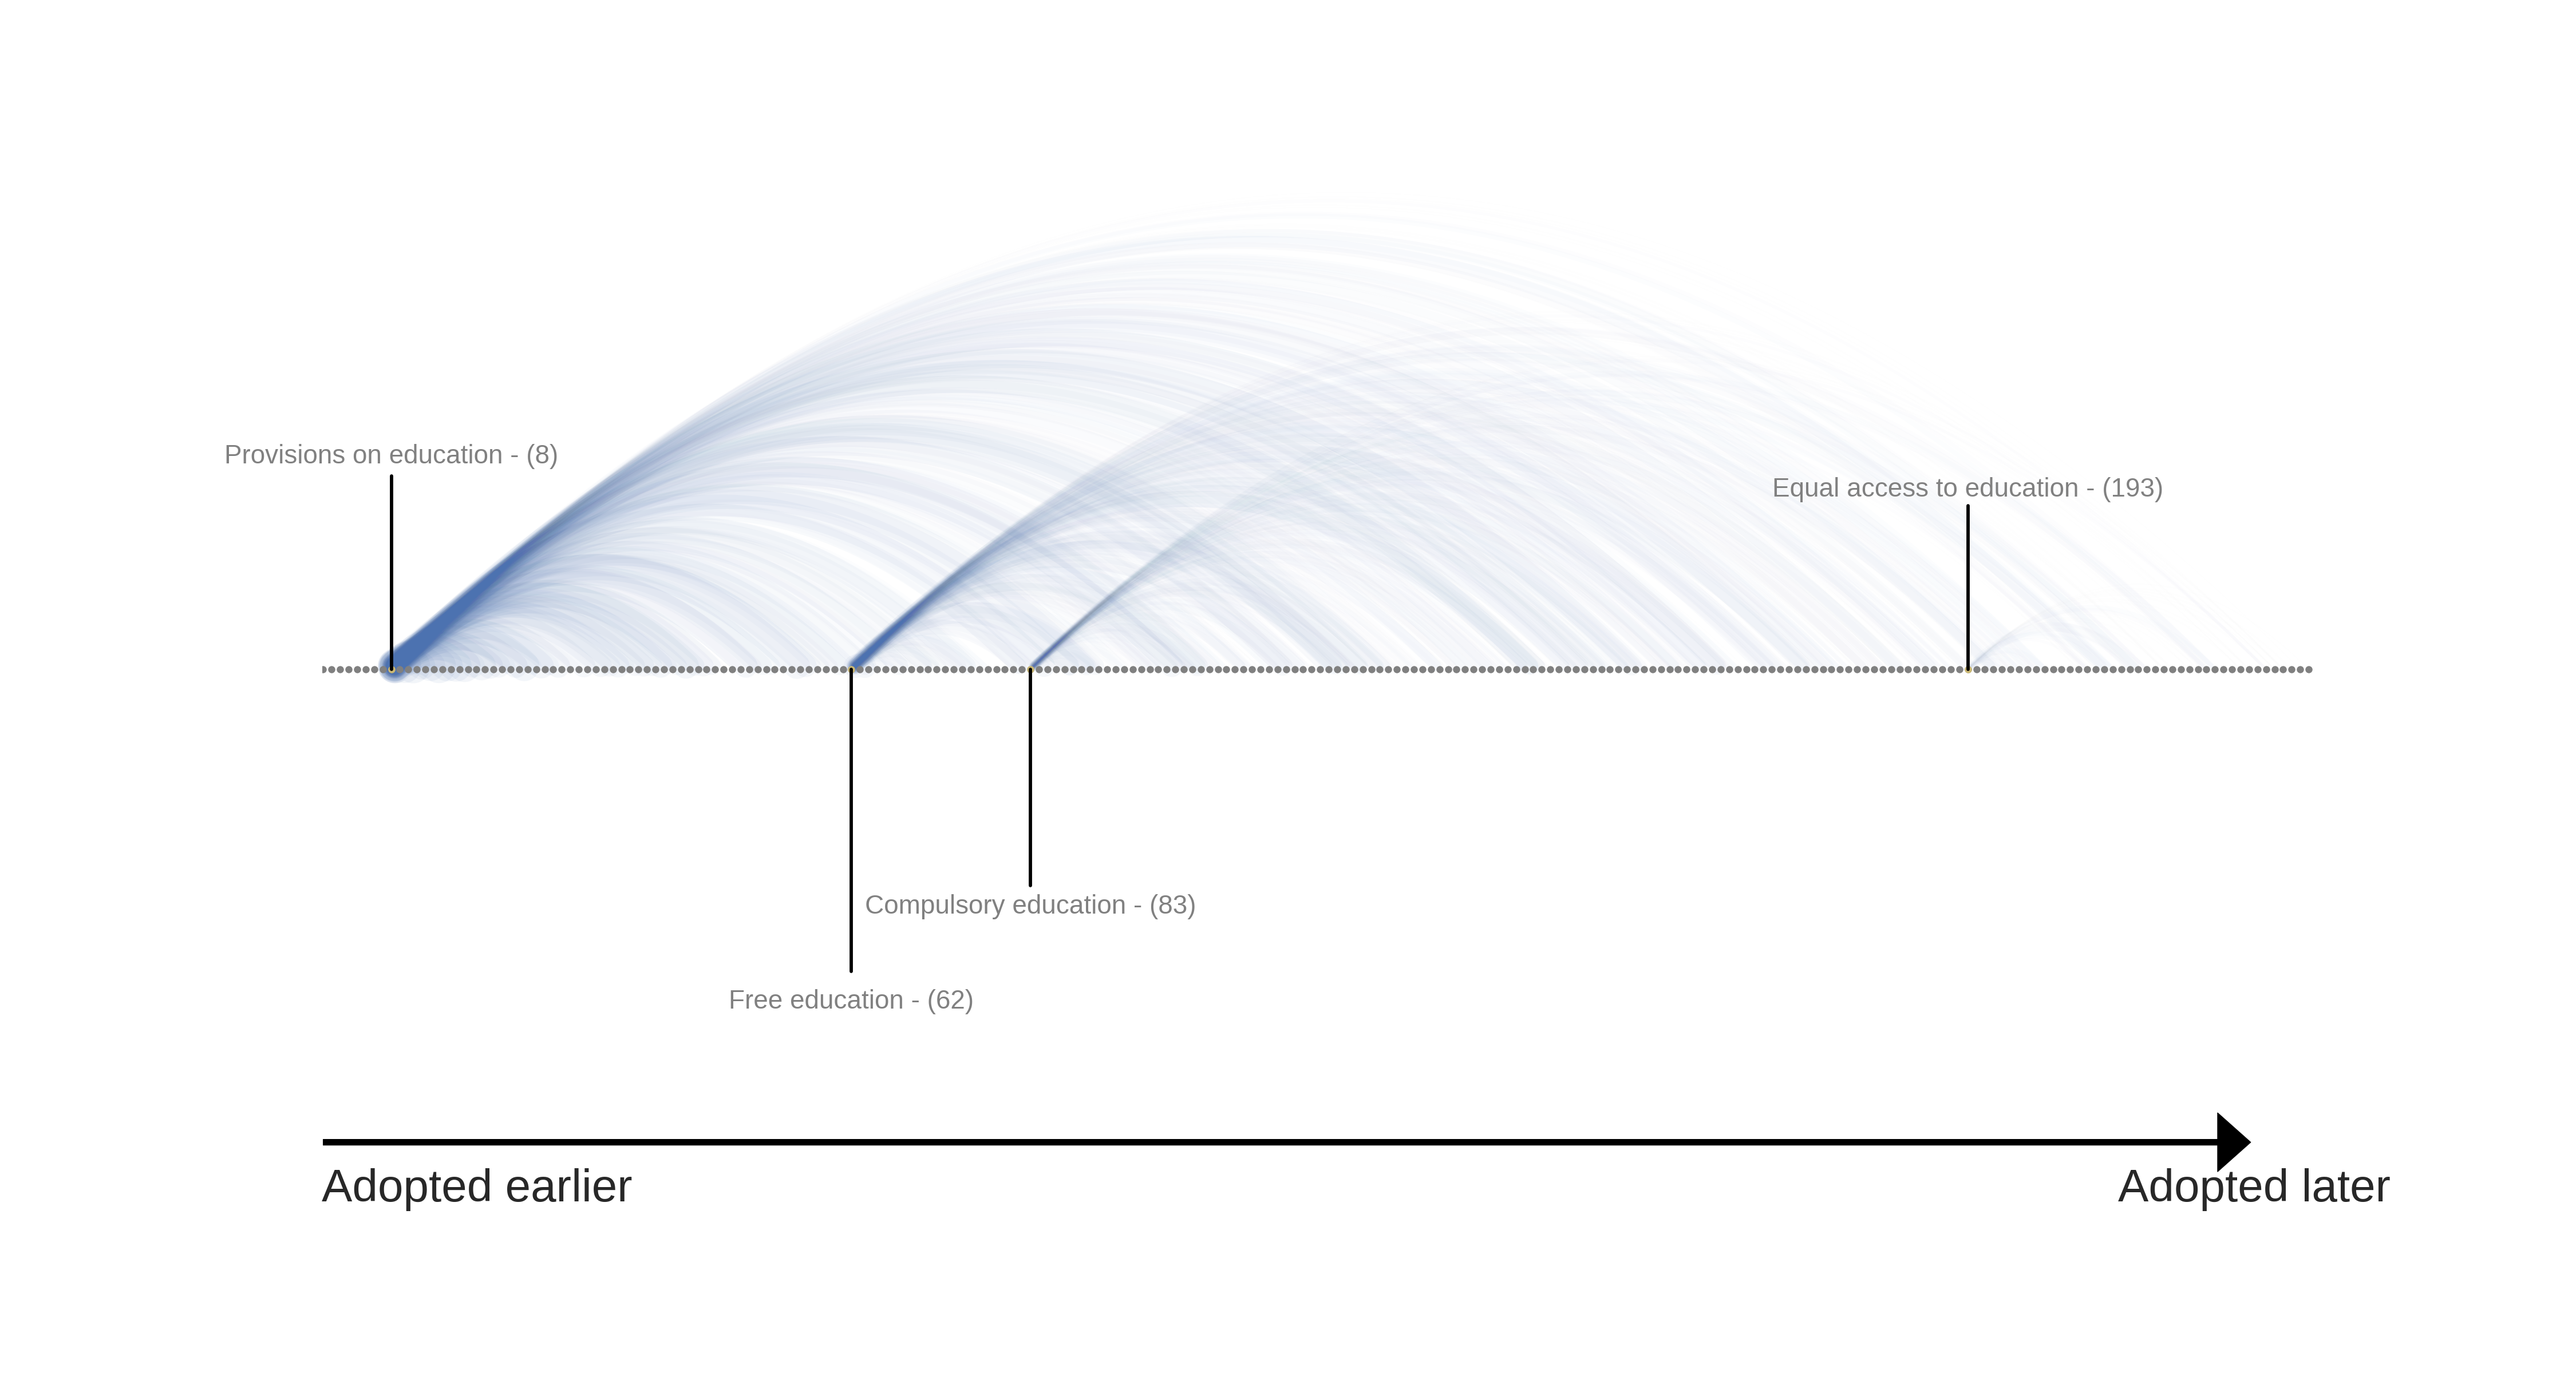
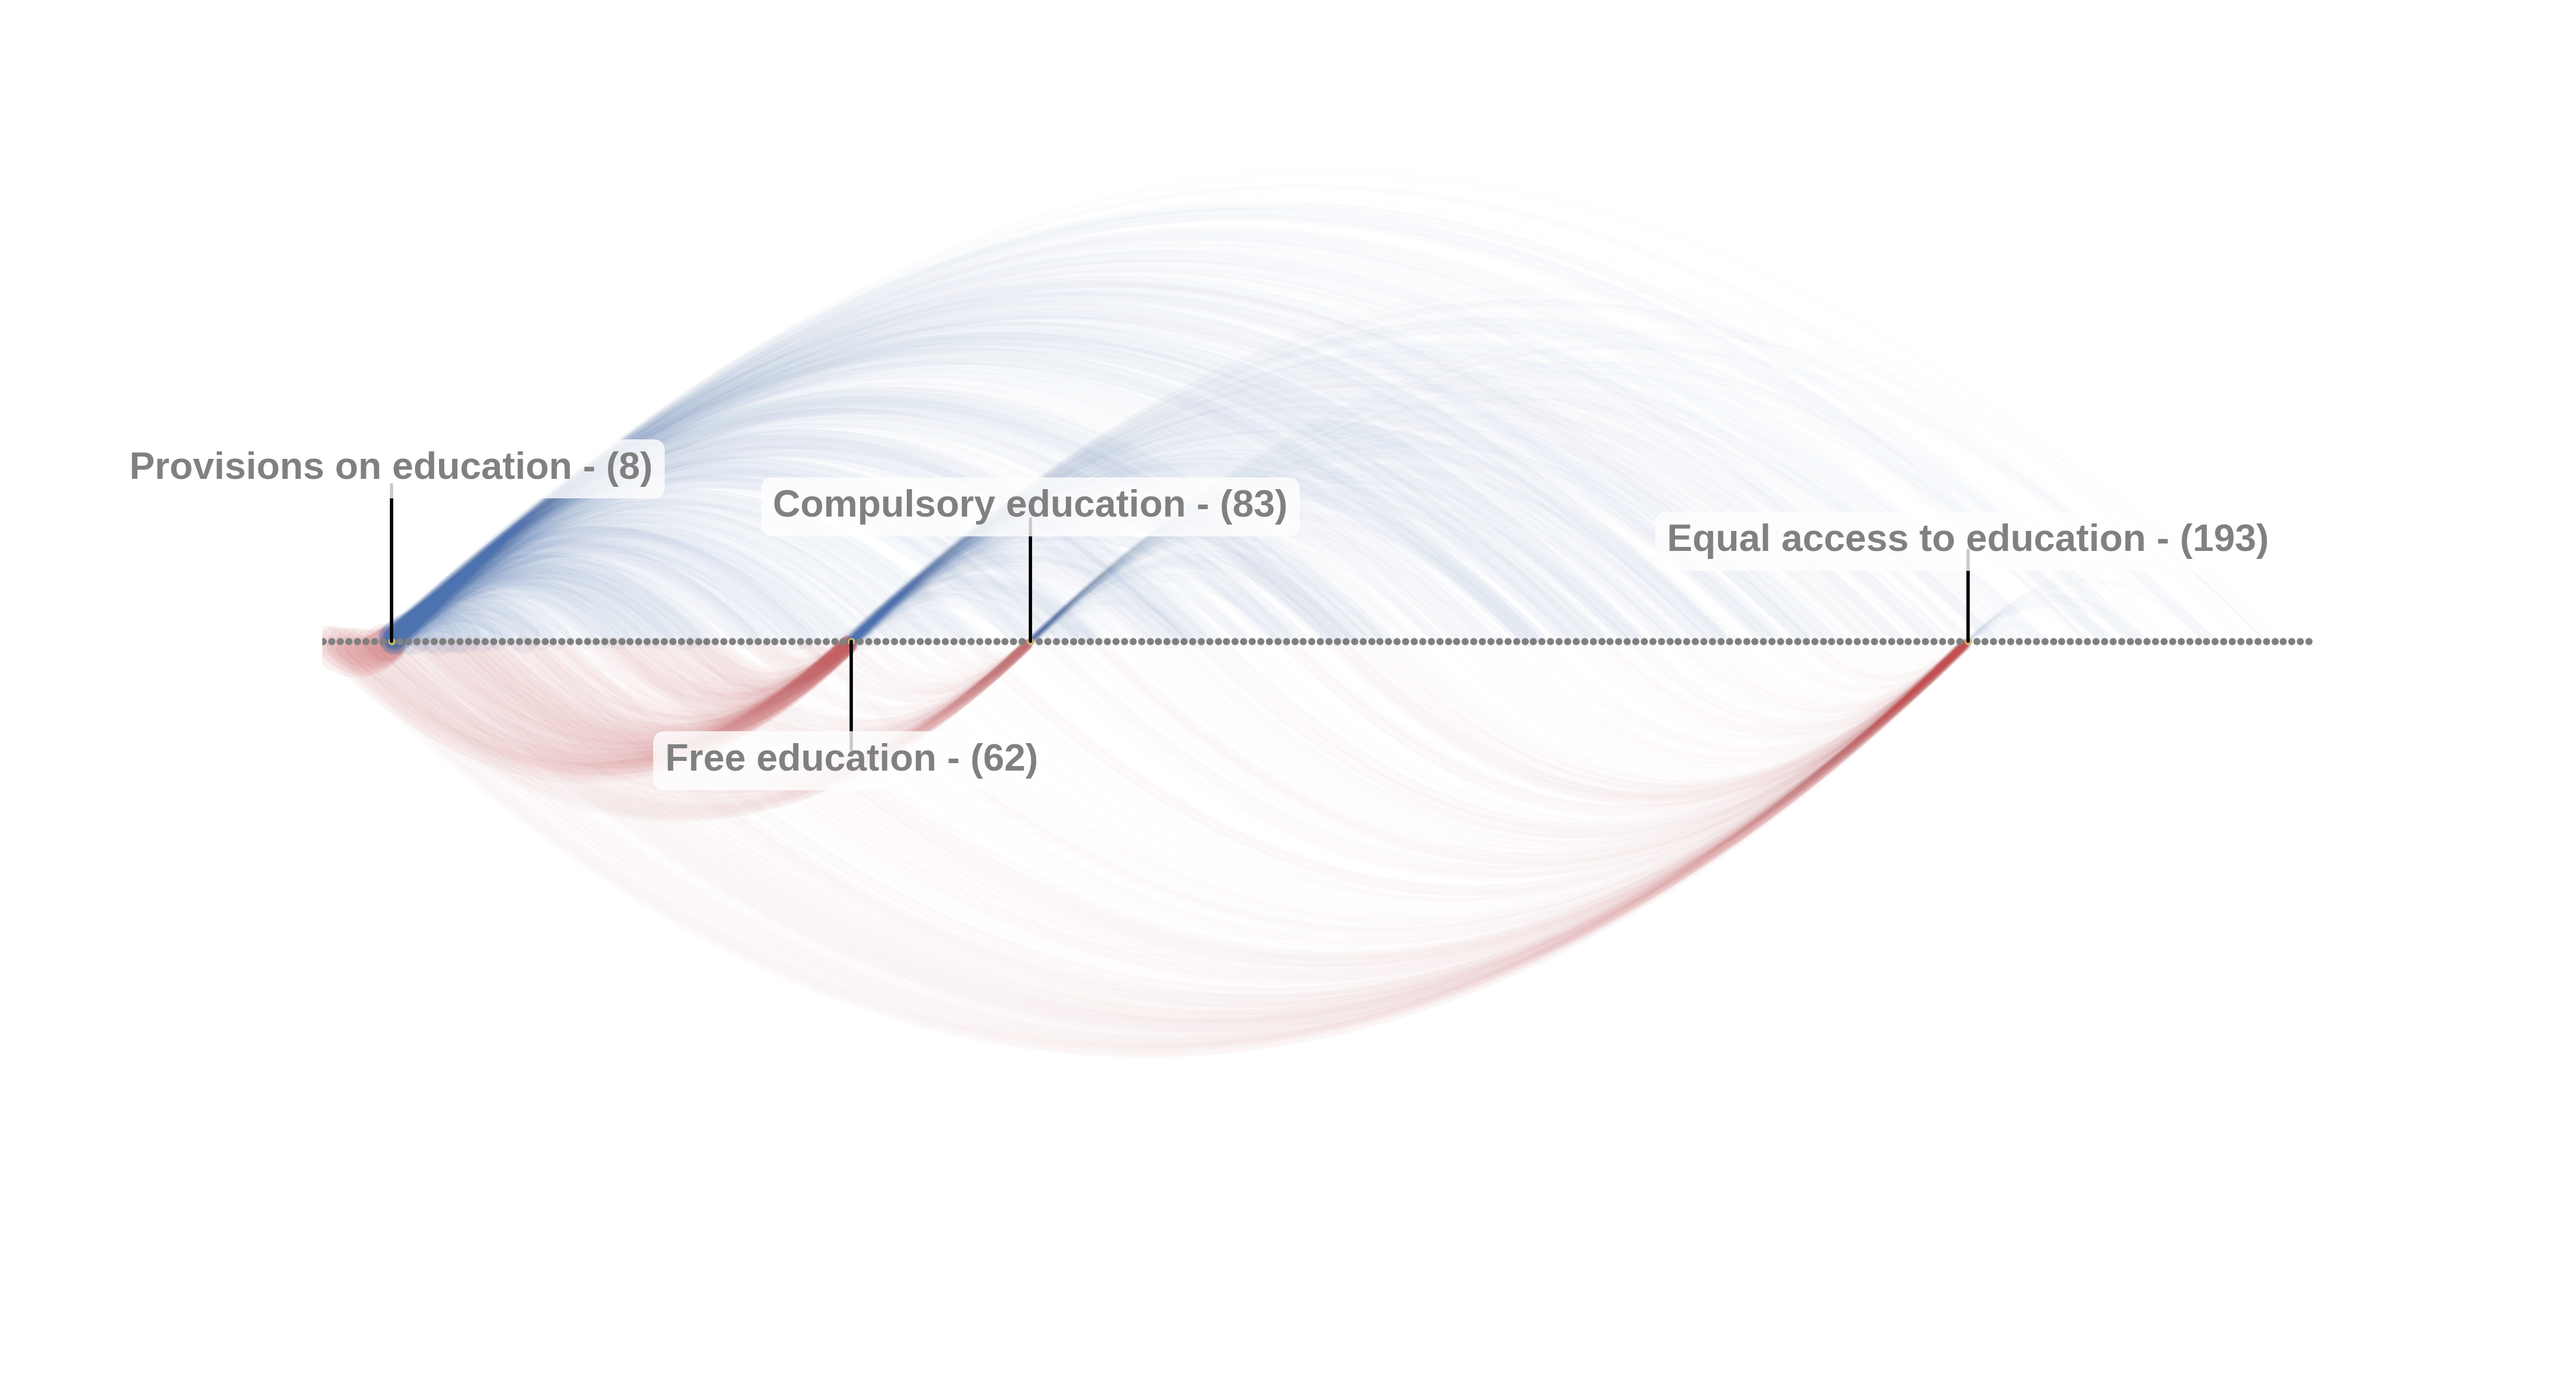
updated hierarcy images

diff --git a/hierarchy.html b/hierarchy.html
@@ -94,23 +94,32 @@ img {
   <div class="tabbable"> <!-- Only required for left/right tabs -->
     <ul class="nav nav-tabs">
       <li class="active"><a href="#tab1" data-toggle="tab">Full hierarchy</a></li>
-      <li><a href="#tab2" data-toggle="tab">Work hierarchy</a></li>
-      <li><a href="#tab3" data-toggle="tab">Education hierarchy</a></li>
+      <li ><a href="#tab2" data-toggle="tab">Upper hierarchy</a></li>
+      <li ><a href="#tab3" data-toggle="tab">Lower hierarchy</a></li>
+      <li><a href="#tab4" data-toggle="tab">Work hierarchy</a></li>
+      <li><a href="#tab5" data-toggle="tab">Education hierarchy</a></li>
     </ul>
     <div class="tab-content">
       <div class="tab-pane active" id="tab1">
-
-
         <img class="media-object" src="img/hierarchy.png">
       </div>
 
       <div class="tab-pane" id="tab2">
-          <img class="media-object" src="img/hierarchy_selected_work.png">
+          <img class="media-object" src="img/hierarchy_high_focused.png">
       </div>
 
       <div class="tab-pane" id="tab3">
+          <img class="media-object" src="img/hierarchy_low_focused.png">
+      </div>
+
+      <div class="tab-pane" id="tab4">
+          <img class="media-object" src="img/hierarchy_selected_work.png">
+      </div>
+
+      <div class="tab-pane" id="tab5">
           <img class="media-object" src="img/hierarchy_selected_education.png">
       </div>
+
 
     </div>
   </div>
